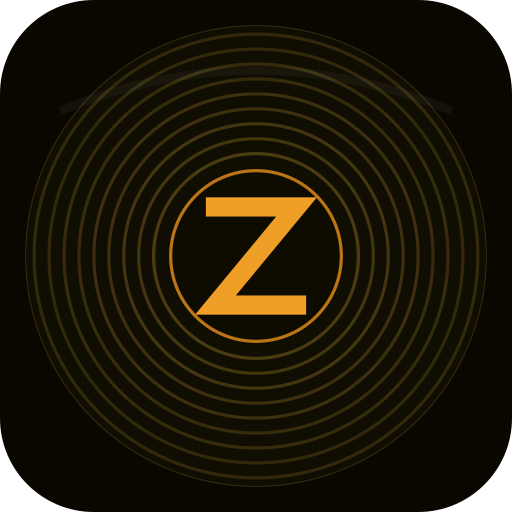
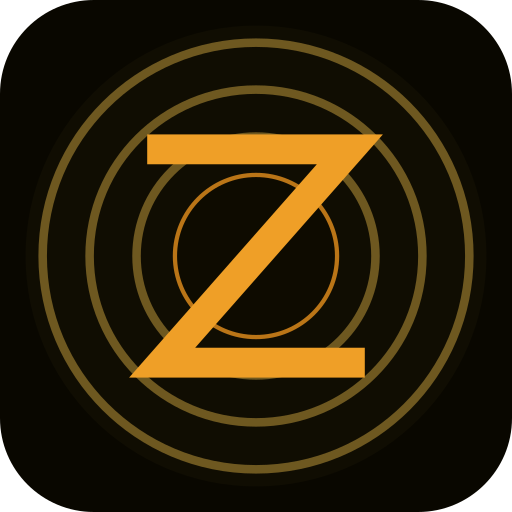
Release v0.2.42
- New logo: larger Z with bolder grooves
- Fix starred sync: fetch getStarred2 from server during sync
- Merge server + local starred status so tracks starred on any client show correctly

Changed region(s): [[0.0625, 0.0625, 0.9375, 0.9375], [0.5, 0.5, 0.5312, 0.5312], [0.4688, 0.4688, 0.5, 0.5]]

diff --git a/app/src/main/java/com/zonik/app/data/repository/LibraryRepository.kt b/app/src/main/java/com/zonik/app/data/repository/LibraryRepository.kt
@@ -253,15 +253,28 @@ class LibraryRepository @Inject constructor(
             onProgress(allTracks.size)
         }
 
+        // Fetch server-side starred tracks for authoritative starred status
+        val serverStarredIds = try {
+            val starred2 = api.getStarred2()
+            val ids = mutableSetOf<String>()
+            starred2.response.starred2?.song?.forEach { ids.add(it.id) }
+            com.zonik.app.data.DebugLog.d("Sync", "Server has ${ids.size} starred tracks")
+            ids
+        } catch (e: Exception) {
+            com.zonik.app.data.DebugLog.w("Sync", "Failed to fetch starred2: ${e.message}")
+            emptySet()
+        }
+
         // Preserve local flags (markedForDeletion, starred) from existing tracks
         val existingMarked = database.trackDao().getMarkedForDeletionIds()
         val existingStarredIds = database.trackDao().getStarred().map { it.id }.toSet()
-        com.zonik.app.data.DebugLog.d("Sync", "Preserving ${existingStarredIds.size} starred, ${existingMarked.size} marked for deletion")
+        // Merge: starred if server OR local DB says so
+        val allStarredIds = serverStarredIds + existingStarredIds
+        com.zonik.app.data.DebugLog.d("Sync", "Preserving ${allStarredIds.size} starred (${serverStarredIds.size} server + ${existingStarredIds.size} local), ${existingMarked.size} marked for deletion")
         val entities = allTracks.map { subsonicTrack ->
             var entity = TrackEntity.fromDomain(subsonicTrack.toDomain())
             if (entity.id in existingMarked) entity = entity.copy(markedForDeletion = true)
-            // Preserve starred: true if either server or local DB says starred
-            if (entity.id in existingStarredIds && !entity.starred) entity = entity.copy(starred = true)
+            if (entity.id in allStarredIds) entity = entity.copy(starred = true)
             entity
         }
         database.trackDao().upsertAll(entities)

diff --git a/app/src/main/java/com/zonik/app/model/SubsonicResponse.kt b/app/src/main/java/com/zonik/app/model/SubsonicResponse.kt
@@ -339,6 +339,26 @@ data class SubsonicPlaylistDetail(
 )
 
 @Serializable
+data class Starred2Data(
+    val song: List<SubsonicTrack>? = null,
+    val album: List<SubsonicAlbum>? = null,
+    val artist: List<SubsonicArtist>? = null
+)
+
+@Serializable
+data class Starred2Envelope(
+    val status: String,
+    val version: String,
+    val starred2: Starred2Data? = null
+)
+
+@Serializable
+data class Starred2Response(
+    @SerialName("subsonic-response")
+    val response: Starred2Envelope
+)
+
+@Serializable
 data class StarResponse(
     @SerialName("subsonic-response")
     val response: SubsonicEnvelope<Unit>

diff --git a/app/src/main/java/com/zonik/app/data/api/SubsonicApi.kt b/app/src/main/java/com/zonik/app/data/api/SubsonicApi.kt
@@ -51,6 +51,9 @@ interface SubsonicApi {
     @GET("rest/getPlaylist.view")
     suspend fun getPlaylist(@Query("id") id: String): PlaylistDetailResponse
 
+    @GET("rest/getStarred2.view")
+    suspend fun getStarred2(): com.zonik.app.model.Starred2Response
+
     @GET("rest/star.view")
     suspend fun star(
         @Query("id") id: String? = null,
